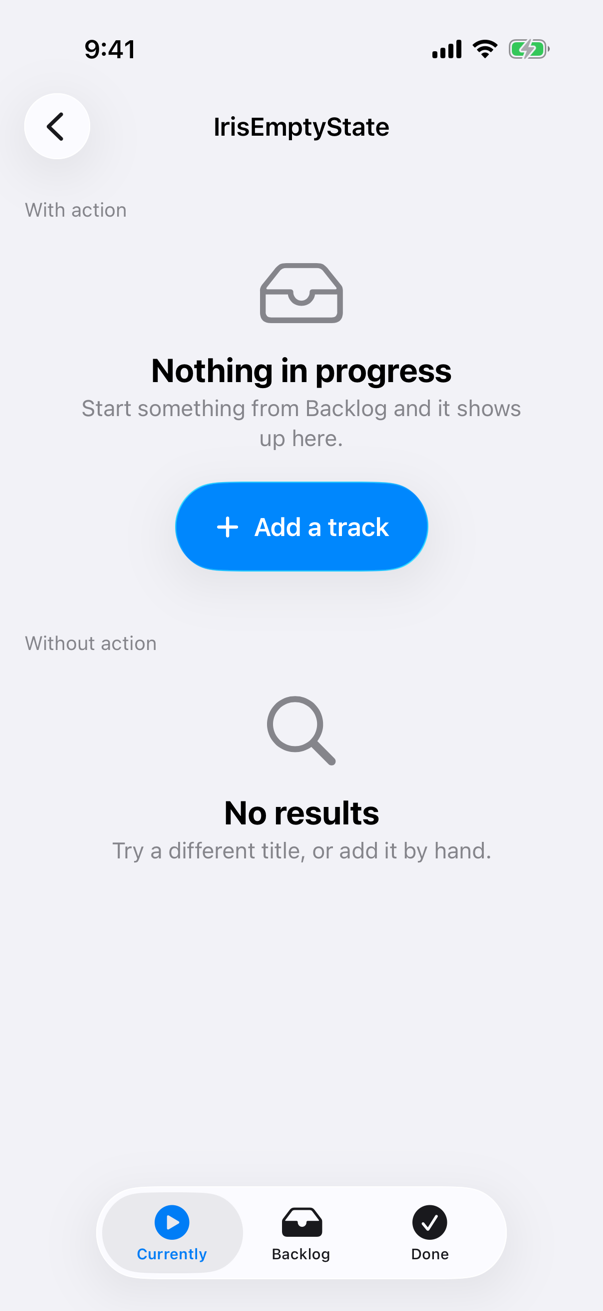
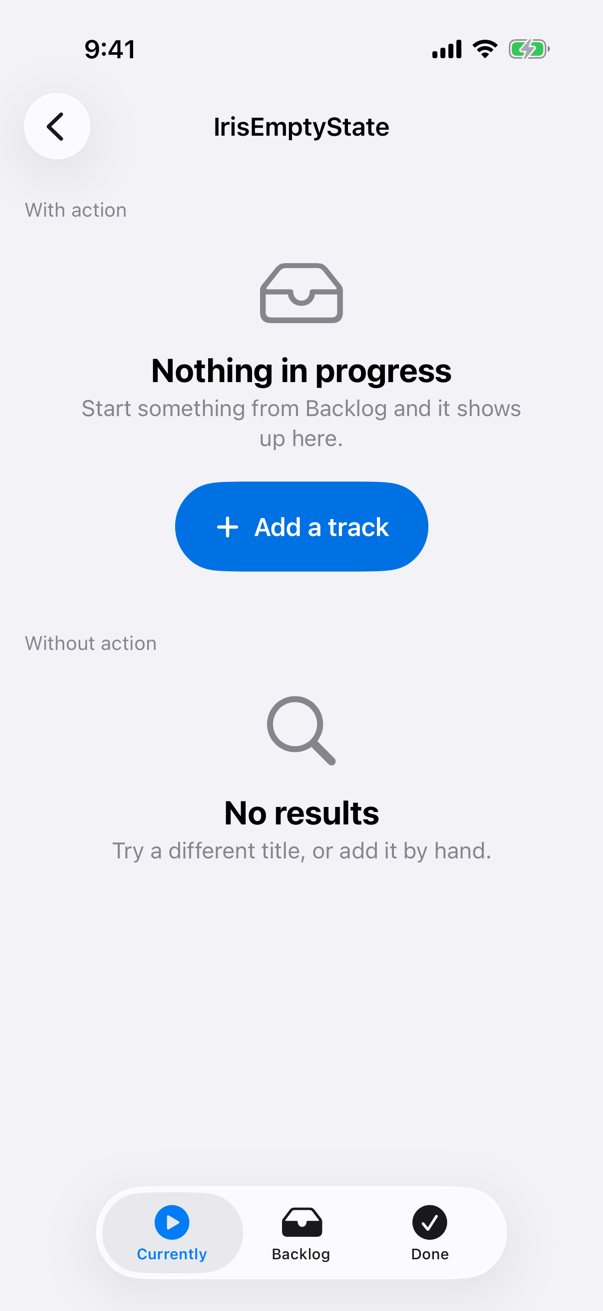
fix(iris): a primary button whose white text passes 4.5:1
Apple's audit on the detail screen failed the primary button. White on
the iOS 26 system blue is ~3.5:1, and .glassProminent lightens its tint
further. A new accentFill token (#0071E3 / #0066CC) is the fill for
prominent buttons, and IrisPrimaryButton is a solid .borderedProminent
capsule. A unit test computes white-on-accentFill in both appearances.
accent stays the tint for glyphs and links.

- tokens regenerated (Swift, TS, CSS, iris.html); contract and
  reference PNGs updated

Claude-Session: https://claude.ai/code/session_01V2n8Vxn8Hq7b6BTCpwRhYj

Changed region(s): [[0.2687, 0.3661, 0.7164, 0.4577]]

diff --git a/docs/design/iris.html b/docs/design/iris.html
@@ -1,6 +1,6 @@
 <!DOCTYPE html>
 <!-- GENERATED by scripts/iris-tokens.js from design/iris/tokens.json — do not edit; run `npm run tokens`. -->
-<!-- source-sha256: 8f94409bbed7048e38d9cc63ad350fe488b52fadf3e68c7e99a097c43a4a41a5 -->
+<!-- source-sha256: 202475f418ce871cfaf96919cb746ae9ffc8f1176ed2097af8eaa9237babbdf7 -->
 <html lang="en">
 <head>
   <meta charset="utf-8">
@@ -48,6 +48,7 @@
         <div class="swatch"><span style="background: var(--iris-color-separator)"></span><code>separator</code></div>
         <div class="swatch"><span style="background: var(--iris-color-fill)"></span><code>fill</code></div>
         <div class="swatch"><span style="background: var(--iris-color-accent)"></span><code>accent</code></div>
+        <div class="swatch"><span style="background: var(--iris-color-accent-fill)"></span><code>accentFill</code></div>
         <div class="swatch"><span style="background: var(--iris-color-on-accent)"></span><code>onAccent</code></div>
         <div class="swatch"><span style="background: var(--iris-color-destructive)"></span><code>destructive</code></div>
         <div class="swatch"><span style="background: var(--iris-color-category-show)"></span><code>categoryShow</code></div>
@@ -66,6 +67,7 @@
         <div class="swatch"><span style="background: var(--iris-color-separator)"></span><code>separator</code></div>
         <div class="swatch"><span style="background: var(--iris-color-fill)"></span><code>fill</code></div>
         <div class="swatch"><span style="background: var(--iris-color-accent)"></span><code>accent</code></div>
+        <div class="swatch"><span style="background: var(--iris-color-accent-fill)"></span><code>accentFill</code></div>
         <div class="swatch"><span style="background: var(--iris-color-on-accent)"></span><code>onAccent</code></div>
         <div class="swatch"><span style="background: var(--iris-color-destructive)"></span><code>destructive</code></div>
         <div class="swatch"><span style="background: var(--iris-color-category-show)"></span><code>categoryShow</code></div>

diff --git a/design/iris/iris.css b/design/iris/iris.css
@@ -1,5 +1,5 @@
 /* GENERATED by scripts/iris-tokens.js from design/iris/tokens.json — do not edit; run `npm run tokens`. */
-/* source-sha256: 8f94409bbed7048e38d9cc63ad350fe488b52fadf3e68c7e99a097c43a4a41a5 */
+/* source-sha256: 202475f418ce871cfaf96919cb746ae9ffc8f1176ed2097af8eaa9237babbdf7 */
 
 :root {
   color-scheme: light dark;
@@ -74,6 +74,7 @@
   --iris-color-separator: rgba(60, 60, 67, 0.122);
   --iris-color-fill: rgba(120, 120, 128, 0.2);
   --iris-color-accent: #0088FF;
+  --iris-color-accent-fill: #0071E3;
   --iris-color-on-accent: #FFFFFF;
   --iris-color-destructive: #FF383C;
   --iris-color-category-show: #CB30E0;
@@ -98,6 +99,7 @@
     --iris-color-separator: rgba(84, 84, 88, 0.502);
     --iris-color-fill: rgba(120, 120, 128, 0.361);
     --iris-color-accent: #0091FF;
+    --iris-color-accent-fill: #0066CC;
     --iris-color-on-accent: #FFFFFF;
     --iris-color-destructive: #FF4245;
     --iris-color-category-show: #DB34F2;
@@ -122,6 +124,7 @@
   --iris-color-separator: rgba(84, 84, 88, 0.502);
   --iris-color-fill: rgba(120, 120, 128, 0.361);
   --iris-color-accent: #0091FF;
+  --iris-color-accent-fill: #0066CC;
   --iris-color-on-accent: #FFFFFF;
   --iris-color-destructive: #FF4245;
   --iris-color-category-show: #DB34F2;

diff --git a/apple/Iris/DesignSystem/IrisTokens.swift b/apple/Iris/DesignSystem/IrisTokens.swift
@@ -1,12 +1,12 @@
 // GENERATED by scripts/iris-tokens.js from design/iris/tokens.json — do not edit; run `npm run tokens`.
-// source-sha256: 8f94409bbed7048e38d9cc63ad350fe488b52fadf3e68c7e99a097c43a4a41a5
+// source-sha256: 202475f418ce871cfaf96919cb746ae9ffc8f1176ed2097af8eaa9237babbdf7
 
 import SwiftUI
 import UIKit
 
 /// Iris design tokens (spec §4.1). Edit design/iris/tokens.json, then `npm run tokens`.
 enum IrisTokens {
[2 lines of base64/hex data omitted]
 
     enum Colors {
         static let background = Color(uiColor: .systemBackground)
@@ -18,6 +18,7 @@ enum IrisTokens {
         static let separator = Color(uiColor: .separator)
         static let fill = Color(uiColor: .systemFill)
         static let accent = Color(uiColor: .systemBlue)
+        static let accentFill = dynamic((0x0071E3, 1.0), (0x0066CC, 1.0))
         static let onAccent = dynamic((0xFFFFFF, 1.0), (0xFFFFFF, 1.0))
         static let destructive = Color(uiColor: .systemRed)
         static let categoryShow = Color(uiColor: .systemPurple)

diff --git a/apple/IrisTests/IrisTokensTests.swift b/apple/IrisTests/IrisTokensTests.swift
@@ -77,4 +77,20 @@ final class IrisTokensTests: XCTestCase {
         c.getRed(&r, green: &g, blue: &b, alpha: &a)
         return [r, g, b, a].map { (Double($0) * 1000).rounded() / 1000 }
     }
+
+    /// I8: white text on a prominent fill must reach 4.5:1 in both appearances
+    /// (the iOS 26 system blue reaches ~3.5:1, which Apple's audit fails).
+    func testWhiteOnTheAccentFillPassesContrast() {
+        for style in [UIUserInterfaceStyle.light, .dark] {
+            let fill = rgba(UIColor(IrisTokens.Colors.accentFill).resolvedColor(with: UITraitCollection(userInterfaceStyle: style)))
+            let ratio = Self.contrast(white: 1.0, against: fill)
+            XCTAssertGreaterThanOrEqual(ratio, 4.5, "white on accentFill (\(style == .dark ? "dark" : "light")) is \(ratio):1")
+        }
+    }
+
+    private static func contrast(white: Double, against c: [Double]) -> Double {
+        func lin(_ v: Double) -> Double { v <= 0.03928 ? v / 12.92 : pow((v + 0.055) / 1.055, 2.4) }
+        let l = 0.2126 * lin(c[0]) + 0.7152 * lin(c[1]) + 0.0722 * lin(c[2])
+        return (white + 0.05) / (l + 0.05)
+    }
 }

diff --git a/src/ui/iris/tokens.ts b/src/ui/iris/tokens.ts
@@ -1,7 +1,7 @@
 // GENERATED by scripts/iris-tokens.js from design/iris/tokens.json — do not edit; run `npm run tokens`.
-// source-sha256: 8f94409bbed7048e38d9cc63ad350fe488b52fadf3e68c7e99a097c43a4a41a5
+// source-sha256: 202475f418ce871cfaf96919cb746ae9ffc8f1176ed2097af8eaa9237babbdf7
 
[2 lines of base64/hex data omitted]
 
 export const irisColors = {
   "light": {
@@ -14,6 +14,7 @@ export const irisColors = {
     "separator": "rgba(60, 60, 67, 0.122)",
     "fill": "rgba(120, 120, 128, 0.2)",
     "accent": "#0088FF",
+    "accentFill": "#0071E3",
     "onAccent": "#FFFFFF",
     "destructive": "#FF383C",
     "categoryShow": "#CB30E0",
@@ -32,6 +33,7 @@ export const irisColors = {
     "separator": "rgba(84, 84, 88, 0.502)",
     "fill": "rgba(120, 120, 128, 0.361)",
     "accent": "#0091FF",
+    "accentFill": "#0066CC",
     "onAccent": "#FFFFFF",
     "destructive": "#FF4245",
     "categoryShow": "#DB34F2",

diff --git a/apple/Iris/DesignSystem/IrisPrimaryButton.swift b/apple/Iris/DesignSystem/IrisPrimaryButton.swift
@@ -27,8 +27,12 @@ struct IrisPrimaryButton: View {
             .frame(maxWidth: fullWidth ? .infinity : nil, minHeight: 50)
             .padding(.horizontal, IrisTokens.Space.lg)
         }
-        .buttonStyle(.glassProminent)
-        .tint(IrisTokens.Colors.accent)
+        // Solid, not .glassProminent: glass renders the tint translucent, which
+        // drops white text below 4.5:1 (I8 audit).
+        .buttonStyle(.borderedProminent)
+        .buttonBorderShape(.capsule)
+        // accentFill, not accent: white on the iOS 26 system blue is ~3.5:1 (I8 audit).
+        .tint(IrisTokens.Colors.accentFill)
         .disabled(inProgress)
         .sensoryFeedback(.success, trigger: taps)
         .accessibilityValue(inProgress ? "In progress" : "")

diff --git a/design/iris/components.md b/design/iris/components.md
@@ -41,7 +41,7 @@ uses it and this file says only how it must behave.
 
 ## IrisPrimaryButton
 **Purpose.** The one prominent action on a screen or sheet ("Add", "Rate it").
-**Anatomy.** The platform's prominent button: on iOS 26, `.glassProminent` tinted `color.accent`, label `headline`, optional leading `IrisSymbol`, full-width option. Minimum height 50 pt.
+**Anatomy.** The platform's prominent button: on iOS, `.borderedProminent` (capsule) tinted `color.accentFill` — solid, not `.glassProminent`, whose translucent tint drops white text under 4.5:1 — label `headline`, optional leading `IrisSymbol`, full-width option. Minimum height 50 pt. `color.accentFill` is a deeper blue than `color.accent` so white text on it reaches 4.5:1 in both appearances (I8); `color.accent` stays the tint for glyphs and links.
 **States.** Enabled, disabled, pressed, in progress (a spinner replaces the symbol and the button is disabled).
 **Behaviour.** Success haptic on activation.
 **Accessibility.** Its label is the title. While in progress the value is "In progress".
